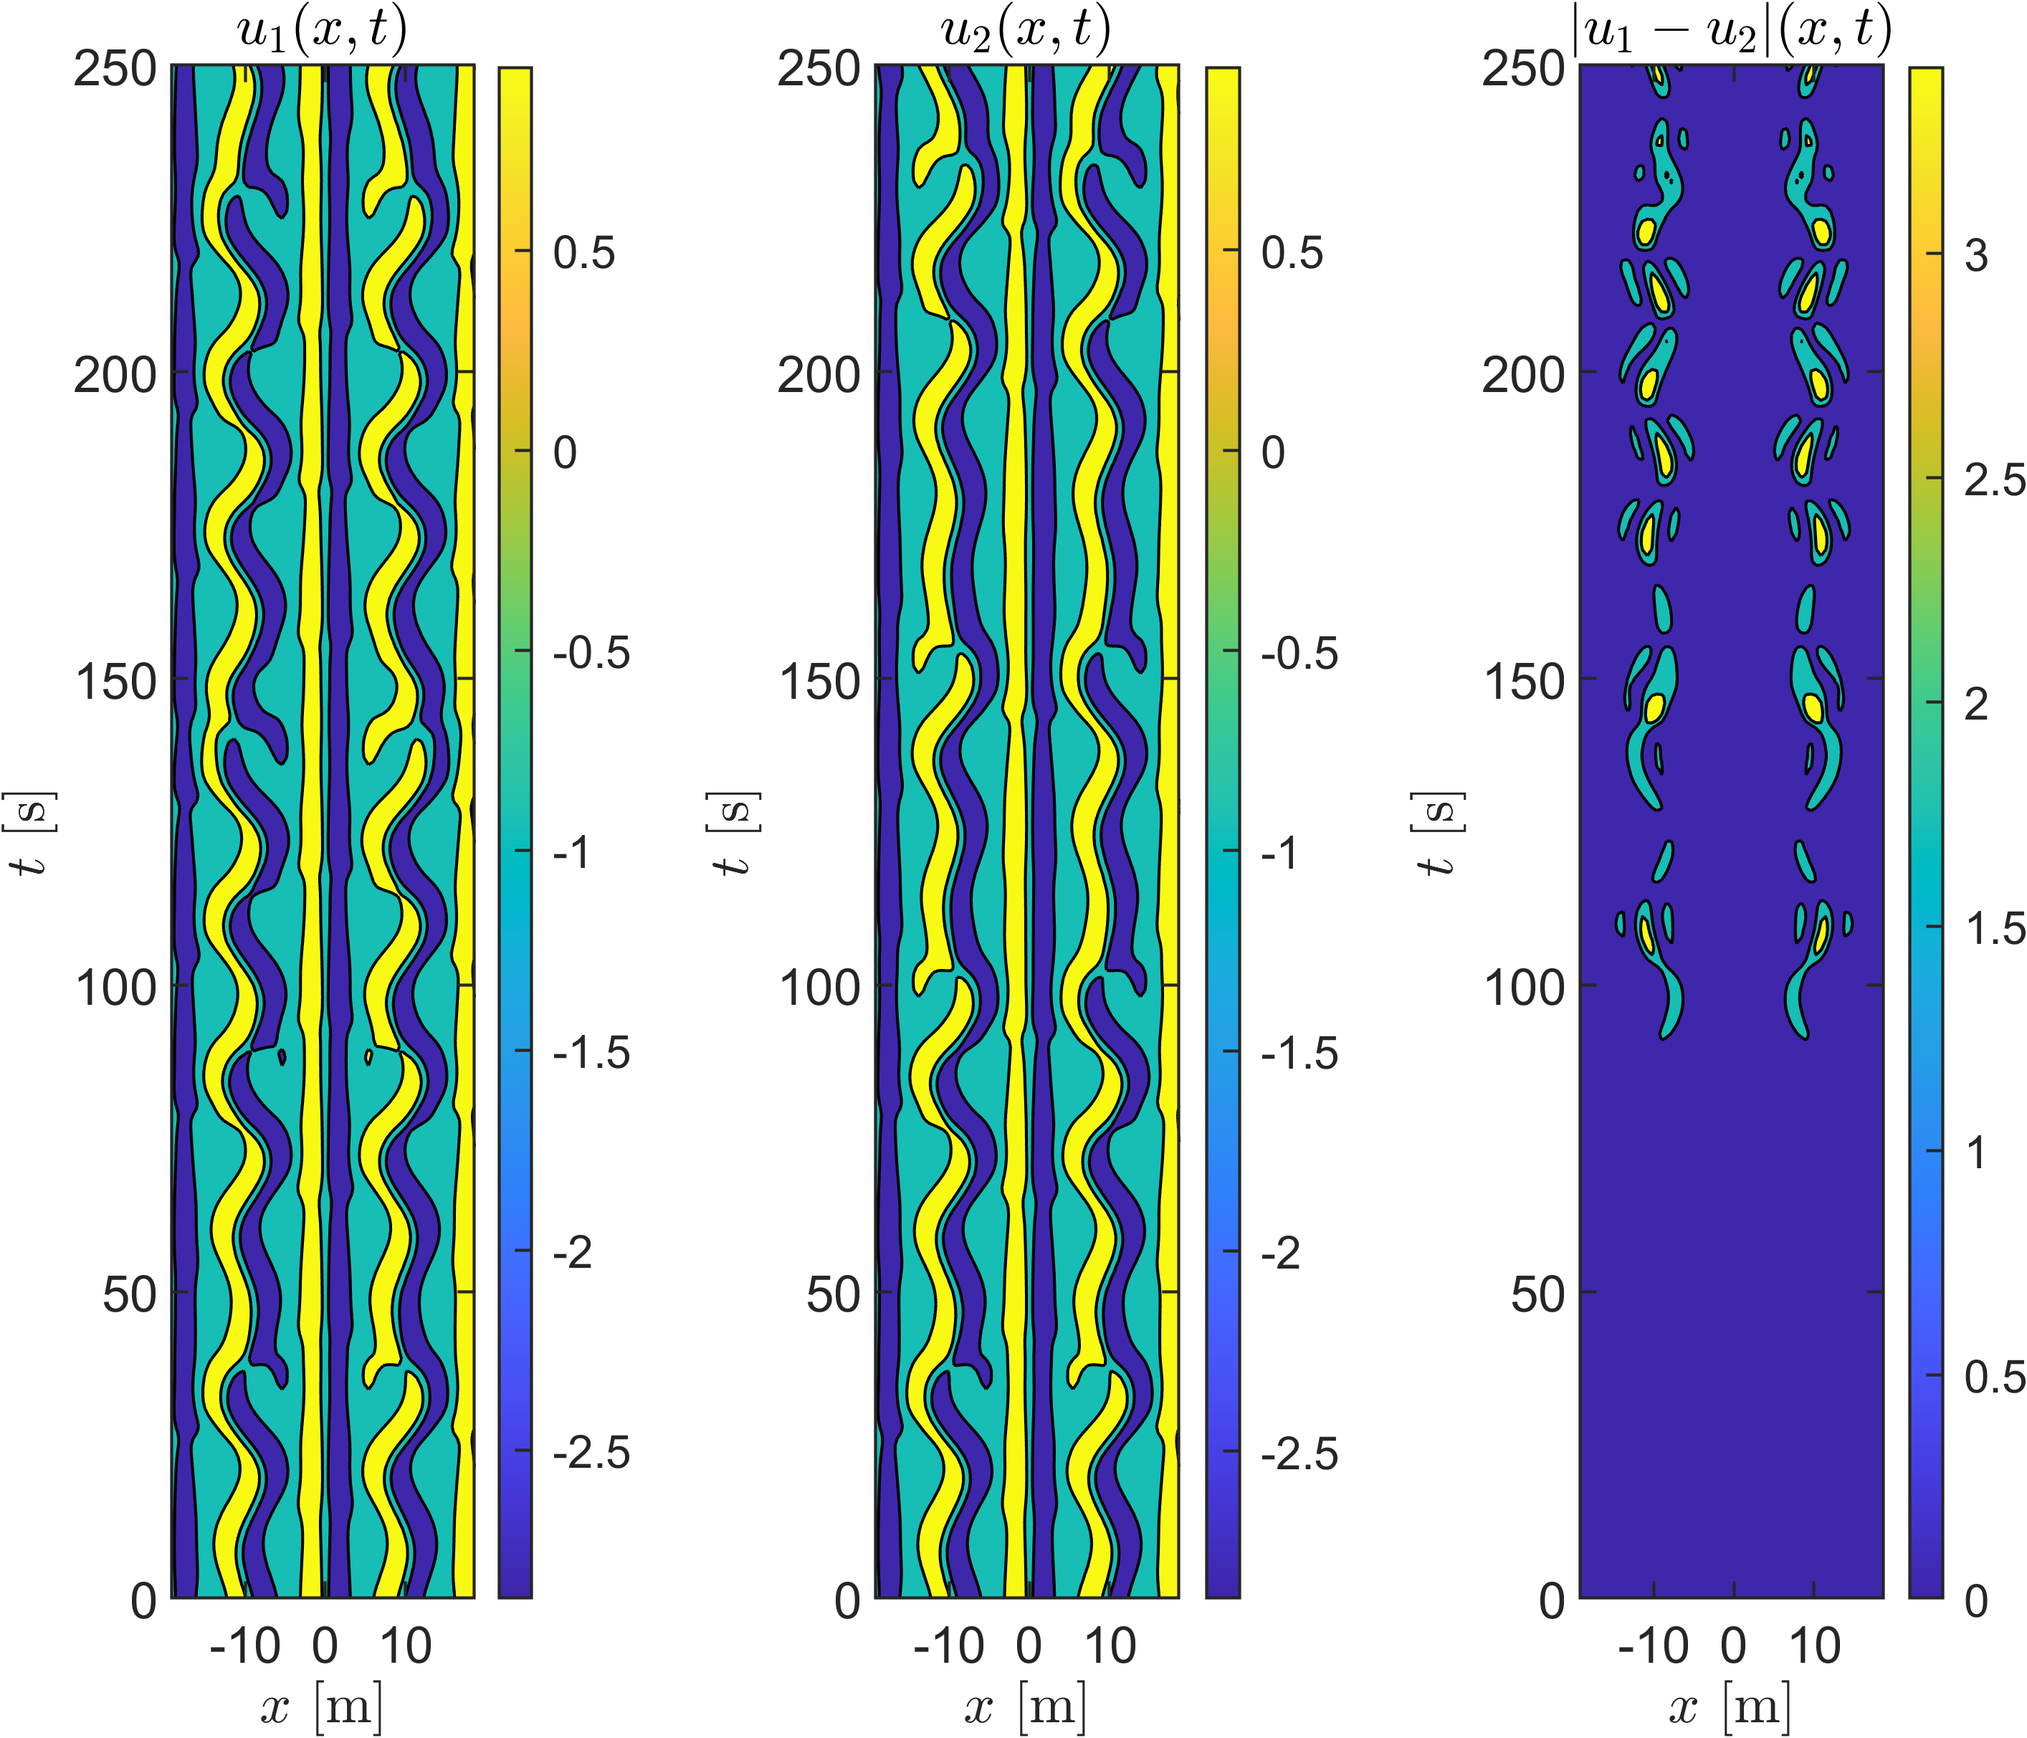
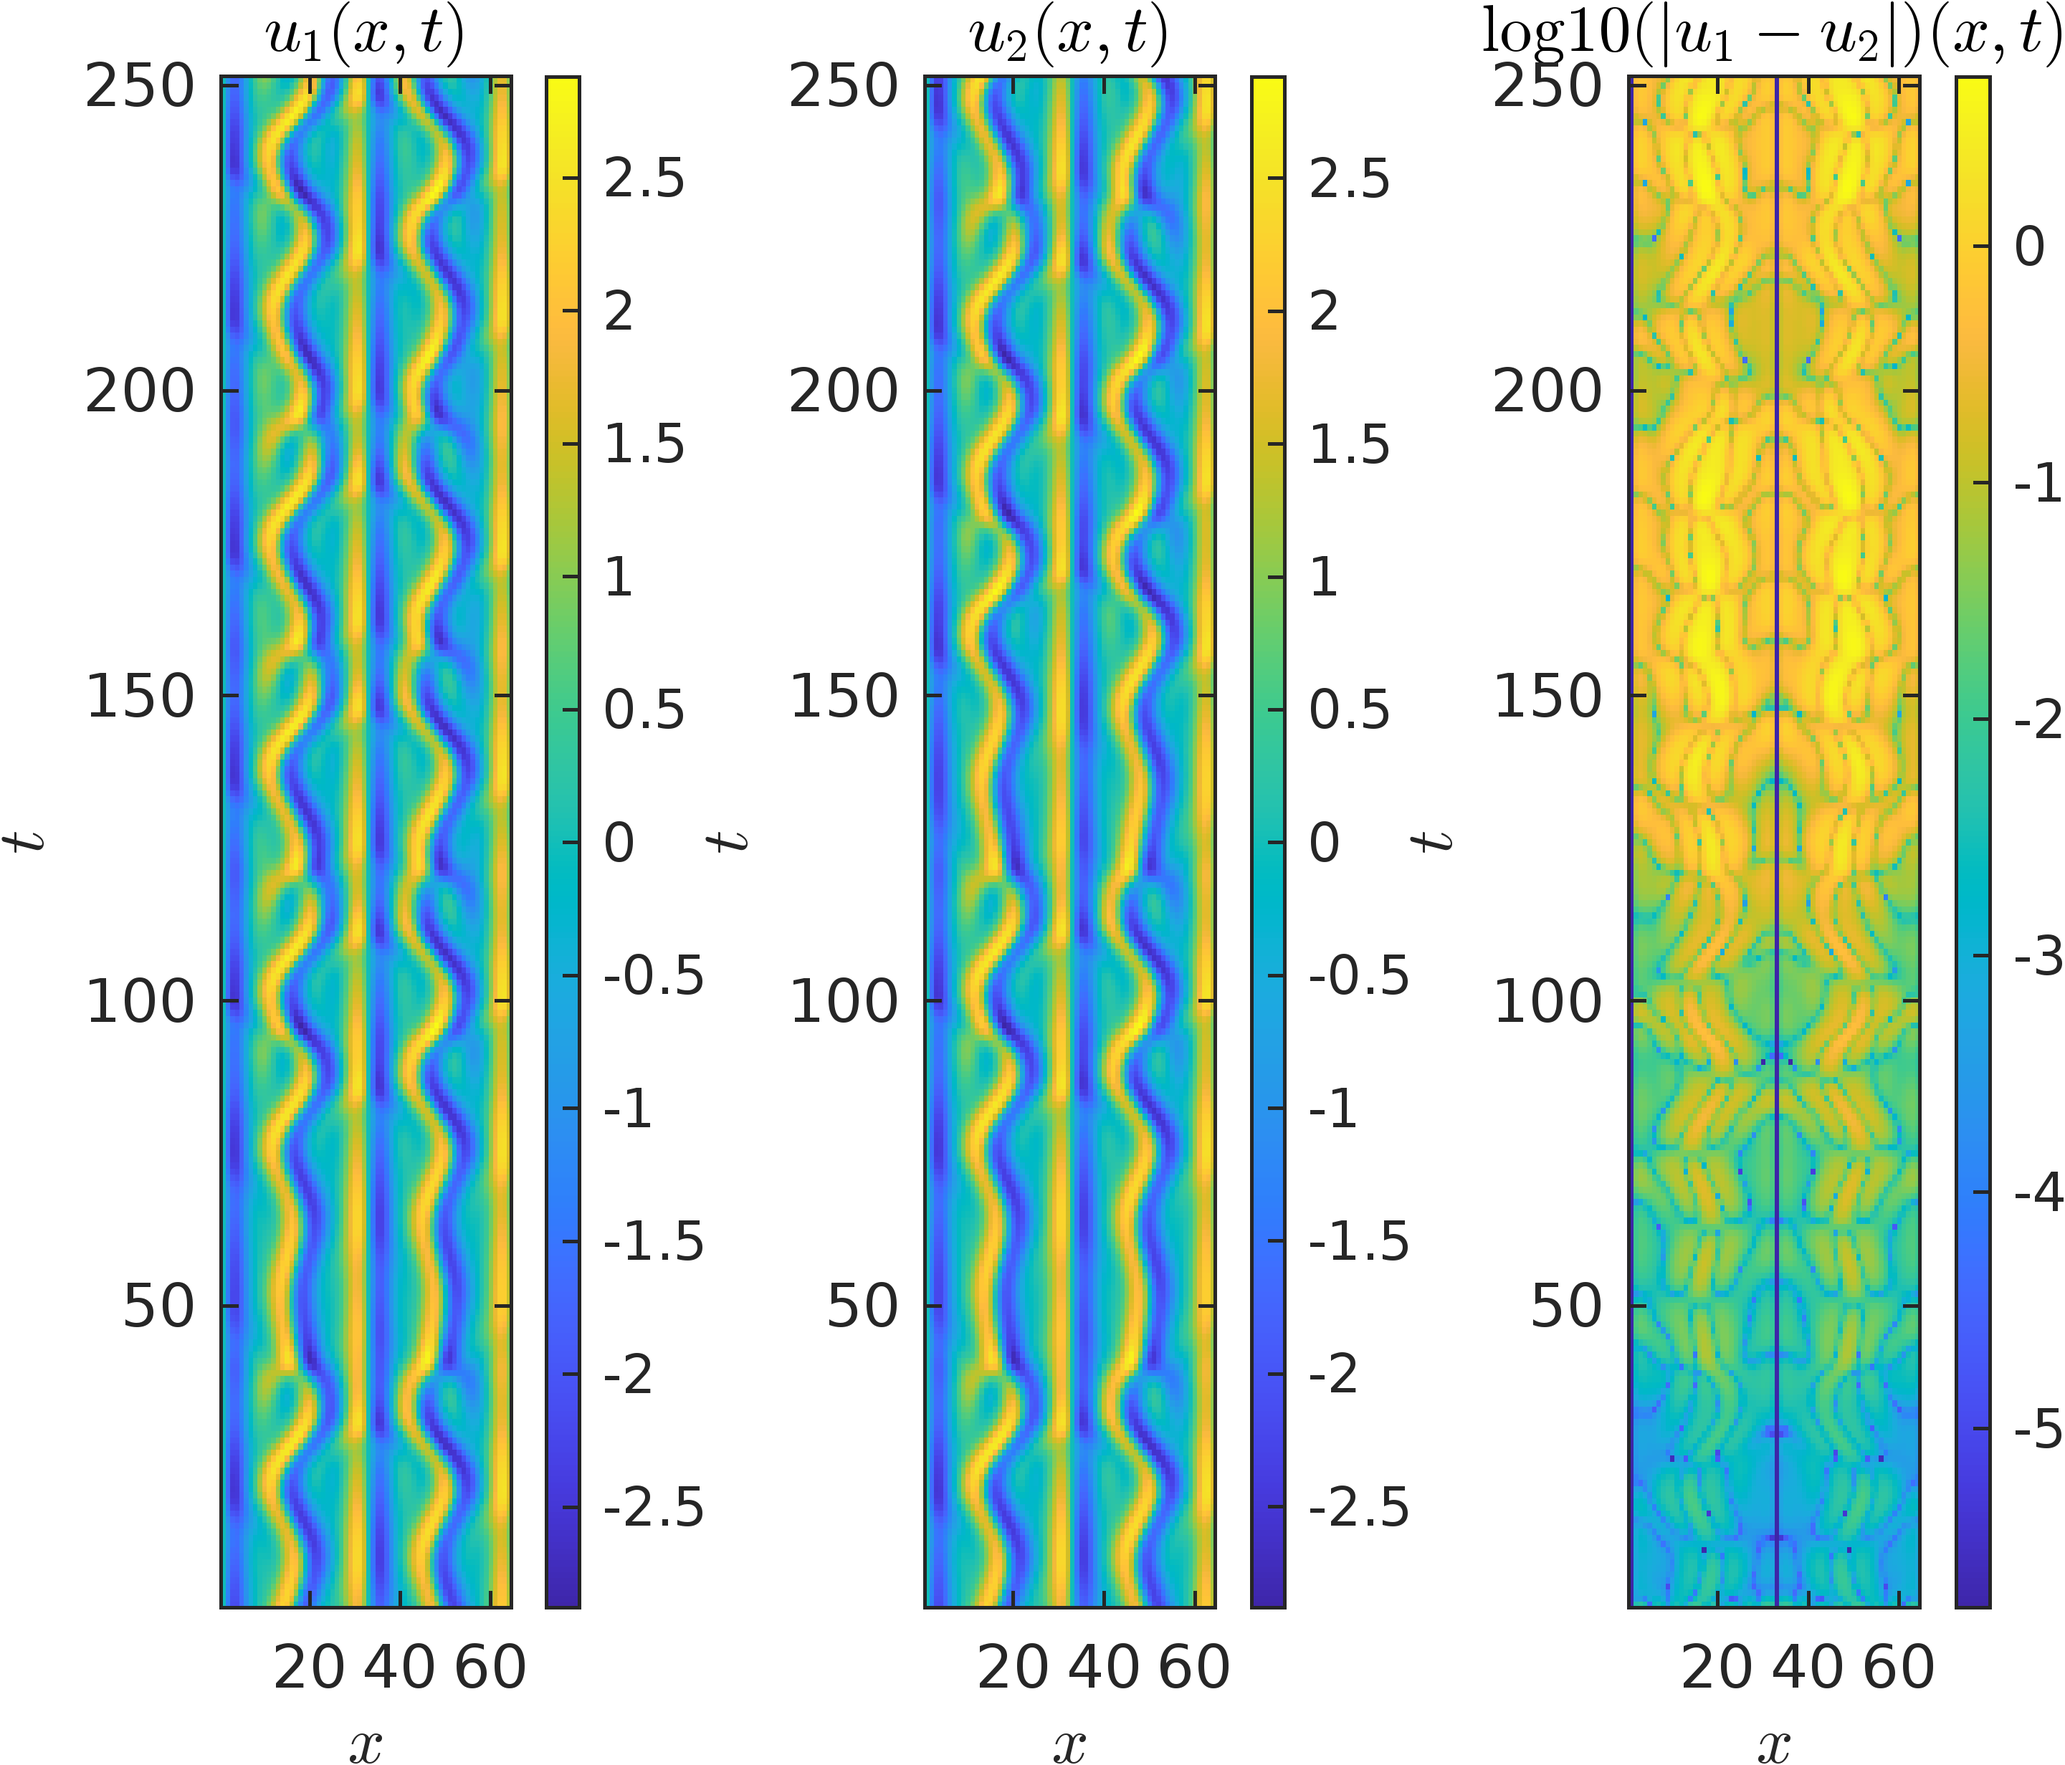
code terminé, besoin d'optimisation

diff --git a/programs/chaos_task3.m b/programs/chaos_task3.m
@@ -20,17 +20,215 @@ v0 = field2vector(u0,N,symm);  % initial state vector
 %% time integrate the KSE
 [V,t_vec] = KSE_integrate(v0,t_study,dt,dt_store,L,N,symm);
 
-%% computing equilibria
-snapshots = [2,111,555,666,1705,2222];     % Modify the set of snapshot numbers. Do NOT
-                               % use the rand or randi command to select
-                               % snapshots from the trajectory; choose six 
-                               % arbitrary numbers yourself. 
-vb = zeros(size(V,1), length(snapshots));
-flg = zeros(length(snapshots));
-for i=1:length(snapshots)
-    Veq = V(:, snapshots(i));
-    [vb(i), flg(i)] = search4EQ(Veq, T_eqb, dt, L, N, symm);
+%% 4.1 Equilibrium solutions
+% STEP 1: RANDOM INITIAL GUESSES
+
+snapshots = [111,256,555,666,1705,2222];
+
+for i=1:6
+    params(i).t = snapshots(i)-1;
 end
 
+figure('Name','C');
+for i=1:length(snapshots)
+    t_idx = snapshots(i);
+    V_guess = V(:, t_idx);
+
+    [params(i).V_eq, params(i).flag] = search4EQ(V_guess, T_eqb, dt, L, N, symm);
+    
+    u_guess = vector2field(V_guess,N,symm);
+    u_eq = vector2field(params(i).V_eq,N,symm);
+    
+    subplot(3,2,i)
+    hold on
+    plot(u_guess, 'DisplayName','Initial guess', linewidth=1.5)
+    plot(u_eq, 'DisplayName','Equilibrium', 'LineStyle','--', LineWidth=1.5)
+    title(['$t=$' num2str(params(i).t) ' s'], 'Interpreter','latex')
+    xlabel('$x$', 'Interpreter','latex')
+    ylabel('$u(x)$', 'Interpreter','latex')
+end
+legend()
+exportgraphics(gcf, '../figures/snapshots.png', 'Resolution',600)
+
+[E,P,D] = projection([params.V_eq],N,L,symm);
+
+for i=1:length(snapshots)
+    params(i).E = E(i);
+    params(i).P = P(i);
+    params(i).D = D(i);
+end
+
+
+%% SIN INITIAL GUESSES
+flg = zeros(1, 6);
+V_eq = zeros(21, 6);
+
+figure('Name','D');
+for k=1:6
+    u0 = sin(k* (2*pi*x)/L);
+    V_guess = field2vector(u0,N,symm);
+    [V_eq(:,k), flg(k)] = search4EQ(V_guess, T_eqb, dt, L, N, symm);
+
+
+    u_guess = vector2field(V_guess,N,symm);
+    u_eq = vector2field(V_eq(:,k),N,symm);
+
+    subplot(3,2,k)
+    hold on
+    plot(u_guess, 'DisplayName','Initial guess', linewidth=1.5)
+
+    if flg(k)~=0
+        plot(u_eq, 'DisplayName','Equilibrium', 'LineStyle','--', LineWidth=1.5)
+    end
+
+    title(['$\sin($' num2str(k) '$\cdot \frac{2 \pi x}{L})$'], 'Interpreter','latex')
+    xlabel('$x$', 'Interpreter','latex')
+    ylabel('$u(x)$', 'Interpreter','latex')
+end
+legend()
+exportgraphics(gcf,'../figures/sines.png', Resolution=600)
+
+%% Plot the chaotic attractor
+[vv,tt] = KSE_integrate(v0,t_study,dt,0.1,L,N,symm); % integrated state vector for the chaotic attractor plot, dt_store is lower to have smoother curves
+[E,P,D] = projection(vv,N,L,symm);
+
+figure(Name='E');
+plot3(E,P,D,'Color',[0,0,0,0.25]) % Chaotic attractor visualization
+
+hold on;
+
+[E,P,D]=projection(V_eq,N,L,symm);
+plot3(E, P, D,'r', LineStyle='none', Marker='.', MarkerSize=20); % E,D,P visualization
+
+xlabel('Energy $E$', Interpreter='latex');
+ylabel('Production $P$', Interpreter='latex');
+zlabel('Dissipation $D$', Interpreter='latex');
+title('Chaotic attractor of the KSE');
+grid on;
+exportgraphics(gcf, '../figures/attractor.png', 'Resolution',600)
+
 %% computing UPOs
-%%% to be completed
+clc; clear
+
+% inputs
+addpath('../functions/')       % folder containing functions
+L = 38.6;                      % domain length
+N = 64;                        % spatial resolution
+symm = true;                   % imposed center symmetry
+t_study = 2500.0;              % analysis time period
+dt = 0.1;                      % time step size for time integration
+dt_store = 1;                % time intervals of storing a snapshot
+T_max = 120.0;                 % maximum T for recurrent flow analysis
+T_eqb = 10.0;                  % time interval for computing equilibria
+epsilon = 1e-6;                % perturbation amplitude for computing J
+
+% initial condition
+[x,~] = domain(L,N);           % construct the spatial domain
+u0 = sin(2.0*pi*x/L);          % initial condition in physical state
+v0 = field2vector(u0,N,symm);  % initial state vector
+
+
+% Recurrence indicator
+T_tot = 120;
+t_tot = t_study;
+r = zeros(t_tot, T_tot);
+
+
+[V,~] = KSE_integrate(v0,t_tot+T_tot,dt,dt_store,L,N,symm);
+
+
+for t=1:t_tot
+    for T=1:T_tot
+    idx = t+T;
+
+    V_t = V(:,t);
+    V_T = V(:,idx);
+
+    r(t,T) = norm(V_T-V_t)/norm(V_t);
+
+    end
+end
+
+
+figure('Name','F')
+imagesc(1:t_tot,1:T_tot,log10(r'))
+c = colorbar;
+c.Label.String = 'log10($r(t,T)$)';
+c.Label.Interpreter = 'latex';
+xlabel('$t$', 'Interpreter','latex')
+ylabel('$T$', Interpreter='latex')
+exportgraphics(gcf,'../figures/recurrence.png', Resolution=600)
+
+
+%% Search for UPOs
+for i=1:5
+    params(i).name = i;
+end
+
+%%
+
+
+ts = [189, 529, 1113, 2087, 1366];
+T_guesses = [37, 58, 74, 85, 105];
+V_UPO = zeros(21, length(ts));
+T_UPO = zeros(1, length(ts));
+flags = zeros(1, length(ts));
+
+
+for i=1:length(ts)
+    t = ts(i);
+    T_guess = T_guesses(i);
+    
+    params(i).t = t;
+    params(i).T_guess = T_guess;
+
+    V_guess = V(:,(t+1)); %the index corresponding the the t-value is t+1
+
+    [V_UPO(:,i), T_UPO(i), flags(i)] = search4PO(V_guess,T_guess,dt,L,N,symm);
+    
+    params(i).flag = flags(i);
+    params(i).T_UPO = T_UPO(i);
+    params(i).V_UPO = V_UPO(:,i);
+    
+end
+
+% Determine stability of computed UPOs
+floquets = zeros(1, length(ts));
+
+for i=1:length(T_guesses)
+    V_p = V(:,i);
+    T_conv = T_UPO(i);
+    JvT = Jacobian(V_p,T_conv,epsilon,dt,L,N,symm);
+    floquets(i) = max(abs(eig(JvT)));
+
+    params(i).floquet = floquets(i);
+
+    params(i).tf = params(i).T_UPO / params(i).floquet;
+    
+end
+
+%% Plot the orbits
+[Vc,~] = KSE_integrate(v0,t_study,dt,dt_store,L,N,symm);
+[E,D,P] = projection(Vc, N, L, symm);
+
+figure('Name','G')
+plot3(E,D,P,'Color',[0,0,0,0.25]) % Chaotic attractor visualization
+hold on;
+for i=1:length(ts)
+    V = params(i).V_UPO;
+    T = params(i).T_UPO;
+
+    v = KSE_integrate(V,T,dt,0.1,L,N,symm);
+
+    [E,D,P] = projection(v,N,L,symm);
+    plot3(E,D,P, linewidth=2)
+
+end
+xlabel('Energy $E$', Interpreter='latex');
+ylabel('Production $P$', Interpreter='latex');
+zlabel('Dissipation $D$', Interpreter='latex');
+legend({'KSE attractor', 'UPO 1', 'UPO 2', 'UPO 3', 'UPO 4', 'UPO 5'})
+grid on;
+exportgraphics(gcf, '../figures/UPOs.png', Resolution=600);
+
+close all;

diff --git a/programs/chaos_task1.m b/programs/chaos_task1.m
@@ -47,24 +47,47 @@ diff = abs(u1 - u2);
 %% Plots for steps 2, 3, 4
 figure('Name','A');
 subplot(1,3,1);
-contourf(x,t,u1',2);
-colorbar;
+imagesc(u1')
+c = colorbar;
 title('$u_1(x,t)$', Interpreter='latex');
-xlabel('$x~\mathrm{[m]}$', Interpreter='latex')
-ylabel('$t~\mathrm{[s]}$', Interpreter='latex')
+xlabel('$x$', Interpreter='latex')
+ylabel('$t$', Interpreter='latex')
+set(gca,'YDir','normal')
 
 subplot(1,3,2);
-contourf(x,t,u2',2);
-colorbar;
+imagesc(u2')
+c = colorbar;
 title('$u_2(x,t)$', Interpreter='latex');
-xlabel('$x~\mathrm{[m]}$', Interpreter='latex')
-ylabel('$t~\mathrm{[s]}$', Interpreter='latex')
+xlabel('$x$', Interpreter='latex')
+ylabel('$t$', Interpreter='latex')
+set(gca,'YDir','normal')
 
 subplot(1,3,3);
-contourf(x,t,diff',2);
-colorbar;
-title('$|u_1 - u_2|(x,t)$', Interpreter='latex');
-xlabel('$x~\mathrm{[m]}$', Interpreter='latex')
-ylabel('$t~\mathrm{[s]}$', Interpreter='latex')
+imagesc(log10(diff'))
+c = colorbar;
+title('log10($|u_1 - u_2|)(x,t)$', Interpreter='latex');
+xlabel('$x$', Interpreter='latex')
+ylabel('$t$', Interpreter='latex')
+set(gca,'YDir','normal')
 
 exportgraphics(gcf, '../figures/contour.png',Resolution=600)
+
+
+%%
+% Compute initial pointwise difference
+initial_diff = abs(u1(:,1) - u2(:,1));   % shape: [64 x 1]
+
+% Create mask: for each (x,t), check if diff >= e * initial_diff(x)
+mask = zeros(size(diff));               % shape: [64 x 250]
+for i = 1:size(diff,1)
+    mask(i,:) = diff(i,:) >= exp(1) * initial_diff(i);
+end
+
+% Plot mask
+figure('Name','Lyapunov Time Mask');
+imagesc(mask')
+set(gca, 'YDir', 'normal')
+xlabel('$x$', 'Interpreter', 'latex')
+ylabel('$t$', 'Interpreter', 'latex')
+title('$|u_1 - u_2| \geq e \cdot |u_1(x,0) - u_2(x,0)|$', 'Interpreter', 'latex')
+colorbar;

diff --git a/programs/chaos_task2.m b/programs/chaos_task2.m
@@ -34,7 +34,12 @@ for i = 1:N_norm
     %---To complete---
     V = J*Q; % map deviation vector
     [Q,R] = qr(V, 0); % QR decomposition
-    X(:,i) = X(:,i) + log(abs(diag(R))); % update X
+
+    if i==1
+        X(:,i) = log(abs(diag(R))); % update X
+    else
+        X(:,i) = X(:,i-1) + log(abs(diag(R))); % update X
+    end
     %---To complete---
 
     [v0,~] = KSE_integrate(v0,tau,dt,0,L,N,symm); % evolve the orbit and update v0
@@ -45,10 +50,13 @@ for i = 1:N_norm
     if(rem(i,20)==0)           % update figure every 20 re-normalizations
         clf; grid on; hold on
         for q = 1:N_exp
-            plot(t(1:i),X(q,1:i)./(N_norm*tau),'LineWidth',2)
+            plot(t(1:i),X(q,1:i)./(tau*(1:i)),'LineWidth',2)
         end
-        xlabel('t'); ylabel('\chi_i')
+        xlabel('Iteration', Interpreter='latex'); ylabel('\chi_i')
         legend(compose('\\chi_{%d}', 1:N_exp))%%
         drawnow
     end
 end
+exportgraphics(gcf,"../figures/lyapunov.png", Resolution=600)
+%%
+chi = X(:, N_norm)/(tau*N_norm)
